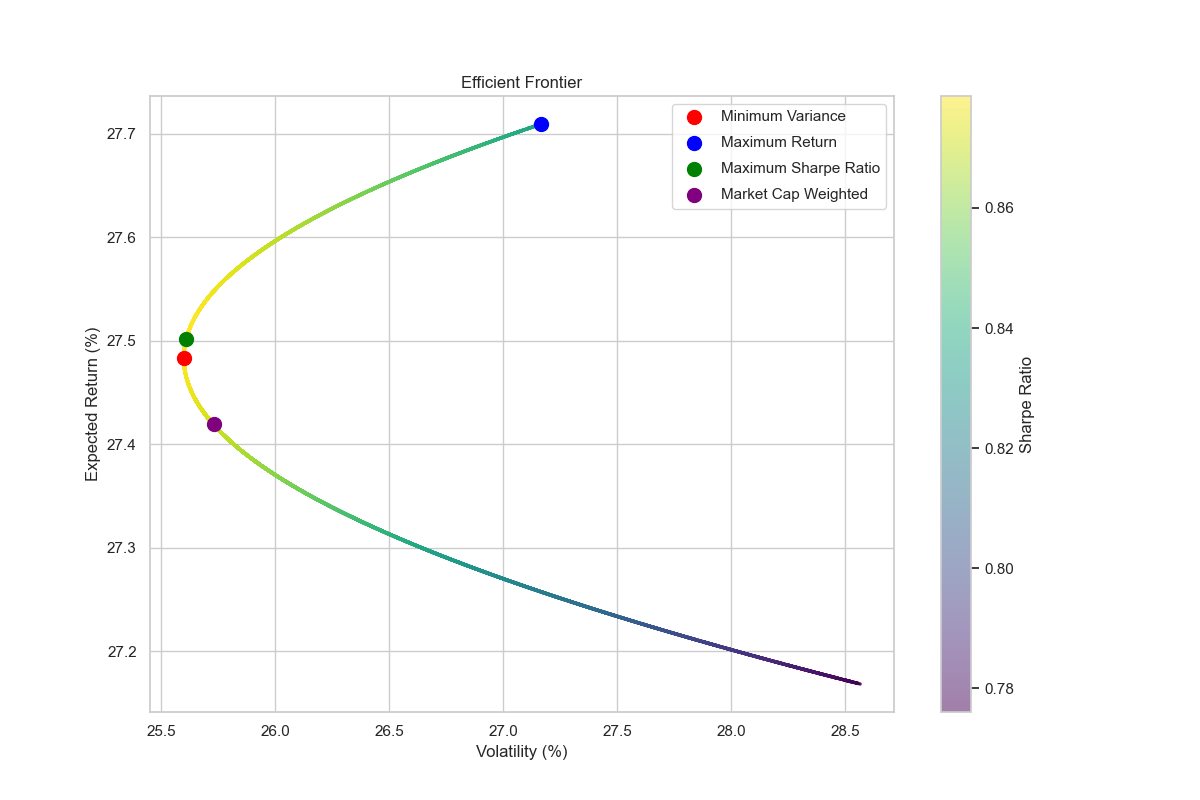
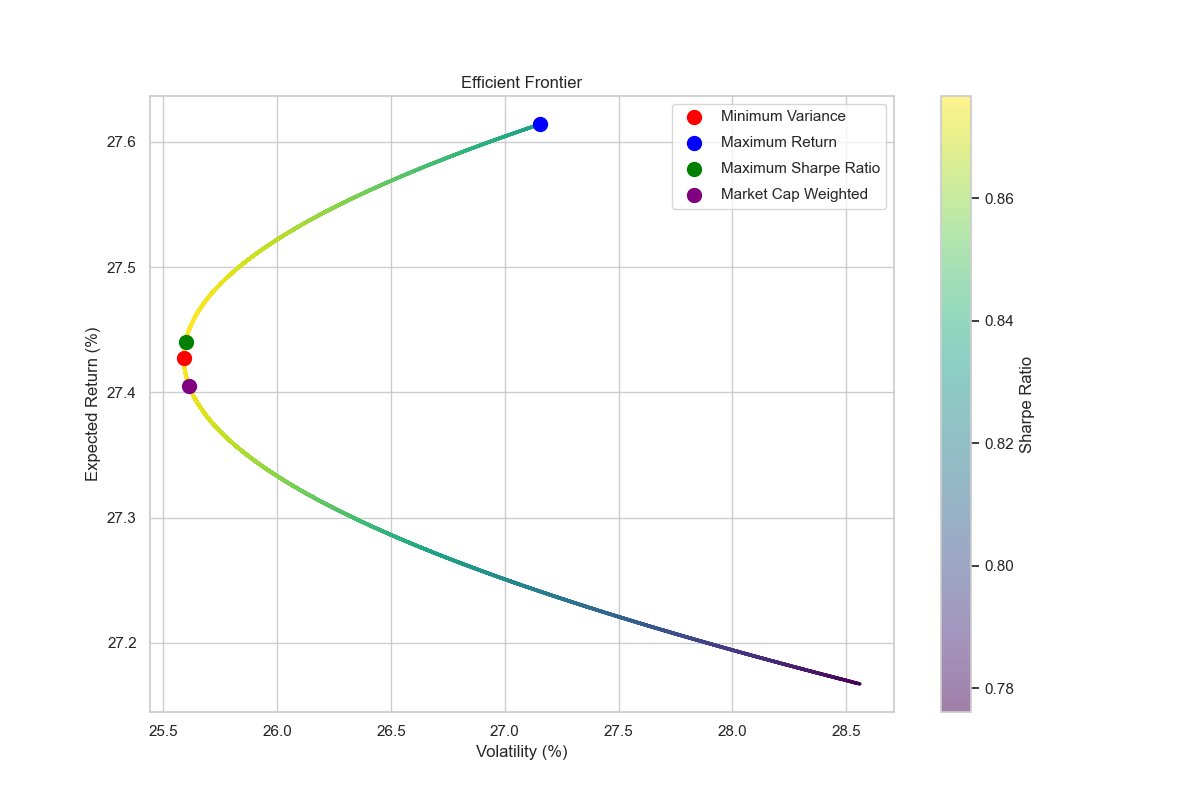
Machine learning implementation #1

diff --git a/main.py b/main.py
@@ -7,8 +7,15 @@ from datetime import datetime
 import seaborn as sns
 import warnings
 
+# **New Imports for Machine Learning**
+from sklearn.ensemble import RandomForestRegressor
+from sklearn.model_selection import train_test_split
+
 # Suppress warnings
 warnings.filterwarnings("ignore", category=RuntimeWarning)
+warnings.filterwarnings("ignore", category=FutureWarning,
+                        message="The 'unit' keyword in TimedeltaIndex construction is deprecated")
+warnings.filterwarnings("ignore", category=DeprecationWarning, message="Pyarrow will become a required dependency")
 
 # Set the style for seaborn
 sns.set(style='whitegrid')
@@ -65,24 +72,93 @@ if returns.isnull().values.any():
     print("Data contains NaNs. Dropping NaNs.")
     returns = returns.dropna()
 
-# Step 2: Calculate mean returns and covariance matrix
-mean_returns = returns.mean()
+# Step 2: Calculate covariance matrix
 cov_matrix = returns.cov()
 num_assets = len(tickers)
 risk_free_rate = 0.05  # 5% annual risk-free rate
 
-# Function to calculate portfolio performance
-def portfolio_performance(weights, mean_returns, cov_matrix):
-    returns = np.dot(weights, mean_returns) * 252
-    volatility = np.sqrt(np.dot(weights.T, np.dot(cov_matrix * 252, weights)))
-    return returns, volatility
+# **Machine Learning for Return Forecasting**
 
-# Constraints and bounds
+# Function to create lagged features
+def create_features(asset_returns, lags=5):
+    features = pd.DataFrame(index=asset_returns.index)
+    for i in range(1, lags + 1):
+        features[f'lag_{i}'] = asset_returns.shift(i)
+    return features
+
+# Prepare predicted returns
+predicted_returns = pd.Series(index=tickers, dtype=float)
+
+for ticker in tickers:
+    # Prepare features and labels
+    asset_returns = returns[ticker]
+    features = create_features(asset_returns)
+    labels = asset_returns.shift(-1)  # Predict next day's return
+
+    # Combine features and labels and drop NaNs
+    df_ml = pd.concat([features, labels], axis=1)
+    df_ml.dropna(inplace=True)
+
+    # Check if there is enough data after dropping NaNs
+    if df_ml.empty or len(df_ml) < 10:
+        print(f"Not enough data to train the model for {ticker}. Skipping.")
+        predicted_returns[ticker] = np.nan
+        continue
+
+    # Separate features and labels
+    labels = df_ml.iloc[:, -1]
+    features = df_ml.iloc[:, :-1]
+
+    # Keep track of the feature columns used during training
+    feature_columns = features.columns
+
+    # Split the data
+    X_train, X_test, y_train, y_test = train_test_split(
+        features, labels, test_size=0.2, shuffle=False
+    )
+
+    # Train the model
+    model = RandomForestRegressor(n_estimators=100, random_state=42)
+    model.fit(X_train, y_train)
+
+    # Prepare the last features for prediction using the same feature columns
+    last_features = create_features(asset_returns).iloc[[-1]]
+    last_features = last_features[feature_columns]
+
+    # Check if last_features contain NaNs
+    if last_features.isnull().any().any():
+        print(f"Cannot predict return for {ticker} due to insufficient data in last features.")
+        predicted_returns[ticker] = np.nan
+        continue
+
+    # Predict the next period return
+    predicted_return = model.predict(last_features)[0]
+    predicted_returns[ticker] = predicted_return
+
+print("\nPredicted Returns:")
+print(predicted_returns.dropna())
+
+# Filter tickers with valid predicted returns
+valid_tickers = predicted_returns.dropna().index.tolist()
+if not valid_tickers:
+    raise ValueError("No valid predicted returns available for optimization.")
+
+# Update variables with valid tickers
+predicted_mean_returns = predicted_returns.dropna() * 252  # Annualize predicted returns
+cov_matrix = returns[valid_tickers].cov()
+num_assets = len(valid_tickers)
+tickers = valid_tickers
+
+# Update constraints, bounds, and initial guess
 constraints = {'type': 'eq', 'fun': lambda x: np.sum(x) - 1}
 bounds = tuple((0.01, 1) for _ in range(num_assets))  # Minimum weight of 1%
-
-# Initial guess
 init_guess = num_assets * [1. / num_assets]
+
+# Function to calculate portfolio performance
+def portfolio_performance(weights, mean_returns, cov_matrix):
+    returns = np.dot(weights, mean_returns)
+    volatility = np.sqrt(np.dot(weights.T, np.dot(cov_matrix * 252, weights)))
+    return returns, volatility
 
 # Optimization options with adjusted 'eps'
 options = {'eps': 1e-10}
@@ -90,7 +166,7 @@ options = {'eps': 1e-10}
 # **A. Minimum Variance Portfolio**
 
 def min_variance(weights):
-    return portfolio_performance(weights, mean_returns, cov_matrix)[1]  # Return volatility
+    return portfolio_performance(weights, predicted_mean_returns, cov_matrix)[1]  # Return volatility
 
 opt_min_variance = minimize(
     min_variance,
@@ -102,13 +178,18 @@ opt_min_variance = minimize(
 )
 
 min_var_weights = opt_min_variance.x
-min_var_return, min_var_volatility = portfolio_performance(min_var_weights, mean_returns, cov_matrix)
-min_var_sharpe = (min_var_return - risk_free_rate) / min_var_volatility
+min_var_return, min_var_volatility = portfolio_performance(
+    min_var_weights, predicted_mean_returns, cov_matrix
+)
+min_var_sharpe = (
+    (min_var_return - risk_free_rate) / min_var_volatility
+    if min_var_volatility != 0 else np.nan
+)
 
 # **B. Maximum Return Portfolio**
 
 def neg_return(weights):
-    return -portfolio_performance(weights, mean_returns, cov_matrix)[0]  # Negative return for minimization
+    return -portfolio_performance(weights, predicted_mean_returns, cov_matrix)[0]
 
 opt_max_return = minimize(
     neg_return,
@@ -120,14 +201,19 @@ opt_max_return = minimize(
 )
 
 max_return_weights = opt_max_return.x
-max_return_return, max_return_volatility = portfolio_performance(max_return_weights, mean_returns, cov_matrix)
-max_return_sharpe = (max_return_return - risk_free_rate) / max_return_volatility
+max_return_return, max_return_volatility = portfolio_performance(
+    max_return_weights, predicted_mean_returns, cov_matrix
+)
+max_return_sharpe = (
+    (max_return_return - risk_free_rate) / max_return_volatility
+    if max_return_volatility != 0 else np.nan
+)
 
 # **C. Maximum Sharpe Ratio Portfolio**
 
 def neg_sharpe_ratio(weights):
-    p_ret, p_vol = portfolio_performance(weights, mean_returns, cov_matrix)
-    return -(p_ret - risk_free_rate) / p_vol  # Negative Sharpe ratio for minimization
+    p_ret, p_vol = portfolio_performance(weights, predicted_mean_returns, cov_matrix)
+    return -(p_ret - risk_free_rate) / p_vol if p_vol != 0 else 0
 
 opt_max_sharpe = minimize(
     neg_sharpe_ratio,
@@ -139,8 +225,13 @@ opt_max_sharpe = minimize(
 )
 
 max_sharpe_weights = opt_max_sharpe.x
-max_sharpe_return, max_sharpe_volatility = portfolio_performance(max_sharpe_weights, mean_returns, cov_matrix)
-max_sharpe_ratio = (max_sharpe_return - risk_free_rate) / max_sharpe_volatility
+max_sharpe_return, max_sharpe_volatility = portfolio_performance(
+    max_sharpe_weights, predicted_mean_returns, cov_matrix
+)
+max_sharpe_ratio = (
+    (max_sharpe_return - risk_free_rate) / max_sharpe_volatility
+    if max_sharpe_volatility != 0 else np.nan
+)
 
 # **D. Market Cap Weighted Portfolio**
 
@@ -161,19 +252,24 @@ market_cap_weights = np.array([market_caps[ticker] for ticker in tickers]) / tot
 market_cap_weights /= np.sum(market_cap_weights)
 
 # Calculate performance
-mc_return, mc_volatility = portfolio_performance(market_cap_weights, mean_returns, cov_matrix)
-mc_sharpe = (mc_return - risk_free_rate) / mc_volatility
+mc_return, mc_volatility = portfolio_performance(
+    market_cap_weights, predicted_mean_returns, cov_matrix
+)
+mc_sharpe = (
+    (mc_return - risk_free_rate) / mc_volatility
+    if mc_volatility != 0 else np.nan
+)
 
 # **Display Portfolio Weights and Performance**
 
 def display_portfolio(weights, portfolio_name):
     print(f"\n{portfolio_name} Portfolio Weights:")
     for ticker, weight in zip(tickers, weights):
-        print(f"{ticker}: {weight*100:.2f}%")
-    p_return, p_volatility = portfolio_performance(weights, mean_returns, cov_matrix)
-    p_sharpe = (p_return - risk_free_rate) / p_volatility
-    print(f"Expected Annual Return: {p_return*100:.2f}%")
-    print(f"Annual Volatility (Risk): {p_volatility*100:.2f}%")
+        print(f"{ticker}: {weight * 100:.2f}%")
+    p_return, p_volatility = portfolio_performance(weights, predicted_mean_returns, cov_matrix)
+    p_sharpe = (p_return - risk_free_rate) / p_volatility if p_volatility != 0 else np.nan
+    print(f"Expected Annual Return (Predicted): {p_return * 100:.2f}%")
+    print(f"Annual Volatility (Risk): {p_volatility * 100:.2f}%")
     print(f"Sharpe Ratio: {p_sharpe:.2f}")
 
 display_portfolio(min_var_weights, "Minimum Variance")
@@ -191,46 +287,64 @@ def random_portfolios(num_portfolios, mean_returns, cov_matrix, risk_free_rate):
         weights /= np.sum(weights)
         weights_record.append(weights)
         p_return, p_volatility = portfolio_performance(weights, mean_returns, cov_matrix)
-        p_sharpe = (p_return - risk_free_rate) / p_volatility
+        p_sharpe = (p_return - risk_free_rate) / p_volatility if p_volatility != 0 else np.nan
         results[0, i] = p_volatility * 100  # Convert to percentage
         results[1, i] = p_return * 100      # Convert to percentage
         results[2, i] = p_sharpe
     return results, weights_record
 
-results, _ = random_portfolios(50000, mean_returns, cov_matrix, risk_free_rate)
+results, _ = random_portfolios(50000, predicted_mean_returns, cov_matrix, risk_free_rate)
+
+# Filter out any portfolios with NaN values
+valid_results = results[:, ~np.isnan(results).any(axis=0)]
 
 # Plotting the Efficient Frontier and Portfolios
 plt.figure(figsize=(12, 8))
-plt.scatter(results[0], results[1], c=results[2], cmap='viridis', s=2, alpha=0.5)
+plt.scatter(valid_results[0], valid_results[1], c=valid_results[2], cmap='viridis', s=2, alpha=0.5)
 plt.colorbar(label='Sharpe Ratio')
 plt.xlabel('Volatility (%)')
 plt.ylabel('Expected Return (%)')
-plt.title('Efficient Frontier')
+plt.title('Efficient Frontier with Predicted Returns')
 
 # Plotting the portfolios as circles with adjusted sizes
-plt.scatter(min_var_volatility * 100, min_var_return * 100, color='red', marker='o', s=100, label='Minimum Variance')
-plt.scatter(max_return_volatility * 100, max_return_return * 100, color='blue', marker='o', s=100, label='Maximum Return')
-plt.scatter(max_sharpe_volatility * 100, max_sharpe_return * 100, color='green', marker='o', s=100, label='Maximum Sharpe Ratio')
-plt.scatter(mc_volatility * 100, mc_return * 100, color='purple', marker='o', s=100, label='Market Cap Weighted')
+plt.scatter(
+    min_var_volatility * 100, min_var_return * 100,
+    color='red', marker='o', s=100, label='Minimum Variance'
+)
+plt.scatter(
+    max_return_volatility * 100, max_return_return * 100,
+    color='blue', marker='o', s=100, label='Maximum Return'
+)
+plt.scatter(
+    max_sharpe_volatility * 100, max_sharpe_return * 100,
+    color='green', marker='o', s=100, label='Maximum Sharpe Ratio'
+)
+plt.scatter(
+    mc_volatility * 100, mc_return * 100,
+    color='purple', marker='o', s=100, label='Market Cap Weighted'
+)
 
 plt.legend(labelspacing=0.8)
-plt.savefig('efficient_frontier.png')
+plt.savefig('efficient_frontier_predicted.png')
 plt.close()
 
 # **Monte Carlo Simulation and VaR/CVaR Calculations**
 
 def monte_carlo_simulation(mean_returns, cov_matrix, weights, num_simulations=10000, num_days=252):
+    daily_mean_returns = mean_returns / 252
+    daily_cov_matrix = cov_matrix / 252
     port_returns = []
     for _ in range(num_simulations):
         # Simulate daily returns over the year
-        daily_returns = np.random.multivariate_normal(mean_returns, cov_matrix, num_days)
+        daily_returns = np.random.multivariate_normal(
+            daily_mean_returns, daily_cov_matrix, num_days
+        )
         # Calculate portfolio daily returns
         port_daily_returns = np.sum(daily_returns * weights, axis=1)
         # Compound daily returns to get annual return
         port_cumulative_return = np.prod(1 + port_daily_returns) - 1
         port_returns.append(port_cumulative_return)
-    port_returns = np.array(port_returns)
-    return port_returns
+    return np.array(port_returns)
 
 def calculate_var_cvar(portfolio_returns, confidence_level=0.95):
     sorted_returns = np.sort(portfolio_returns)
@@ -250,13 +364,18 @@ portfolios = {
 
 for name, weights in portfolios.items():
     # Monte Carlo Simulation
-    portfolio_returns = monte_carlo_simulation(mean_returns, cov_matrix, weights)
-    # The portfolio_returns are already annualized through compounding
+    portfolio_returns = monte_carlo_simulation(predicted_mean_returns, cov_matrix, weights)
+    # Output summary statistics
+    print(f"\n{name} Portfolio Simulated Returns:")
+    print(f"Mean Return: {np.mean(portfolio_returns) * 100:.2f}%")
+    print(f"Median Return: {np.median(portfolio_returns) * 100:.2f}%")
+    print(f"Minimum Return: {np.min(portfolio_returns) * 100:.2f}%")
+    print(f"Maximum Return: {np.max(portfolio_returns) * 100:.2f}%")
     # Calculate VaR and CVaR
     var, cvar = calculate_var_cvar(portfolio_returns, confidence_level=0.95)
     print(f"\n{name} Portfolio:")
-    print(f"Value at Risk (95% confidence): {var*100:.2f}%")
-    print(f"Conditional Value at Risk (95% confidence): {cvar*100:.2f}%")
+    print(f"Value at Risk (95% confidence): {var * 100:.2f}%")
+    print(f"Conditional Value at Risk (95% confidence): {cvar * 100:.2f}%")
     # Plot the distribution
     plt.figure(figsize=(10, 6))
     sns.histplot(portfolio_returns * 100, bins=50, kde=True, color='skyblue')
@@ -264,6 +383,6 @@ for name, weights in portfolios.items():
     plt.xlabel('Simulated Annual Return (%)')
     plt.ylabel('Frequency')
     # Save the plot
-    filename = f'{name.lower().replace(" ", "_")}_returns_distribution.png'
+    filename = f'{name.lower().replace(" ", "_")}_returns_distribution_predicted.png'
     plt.savefig(filename)
     plt.close()
